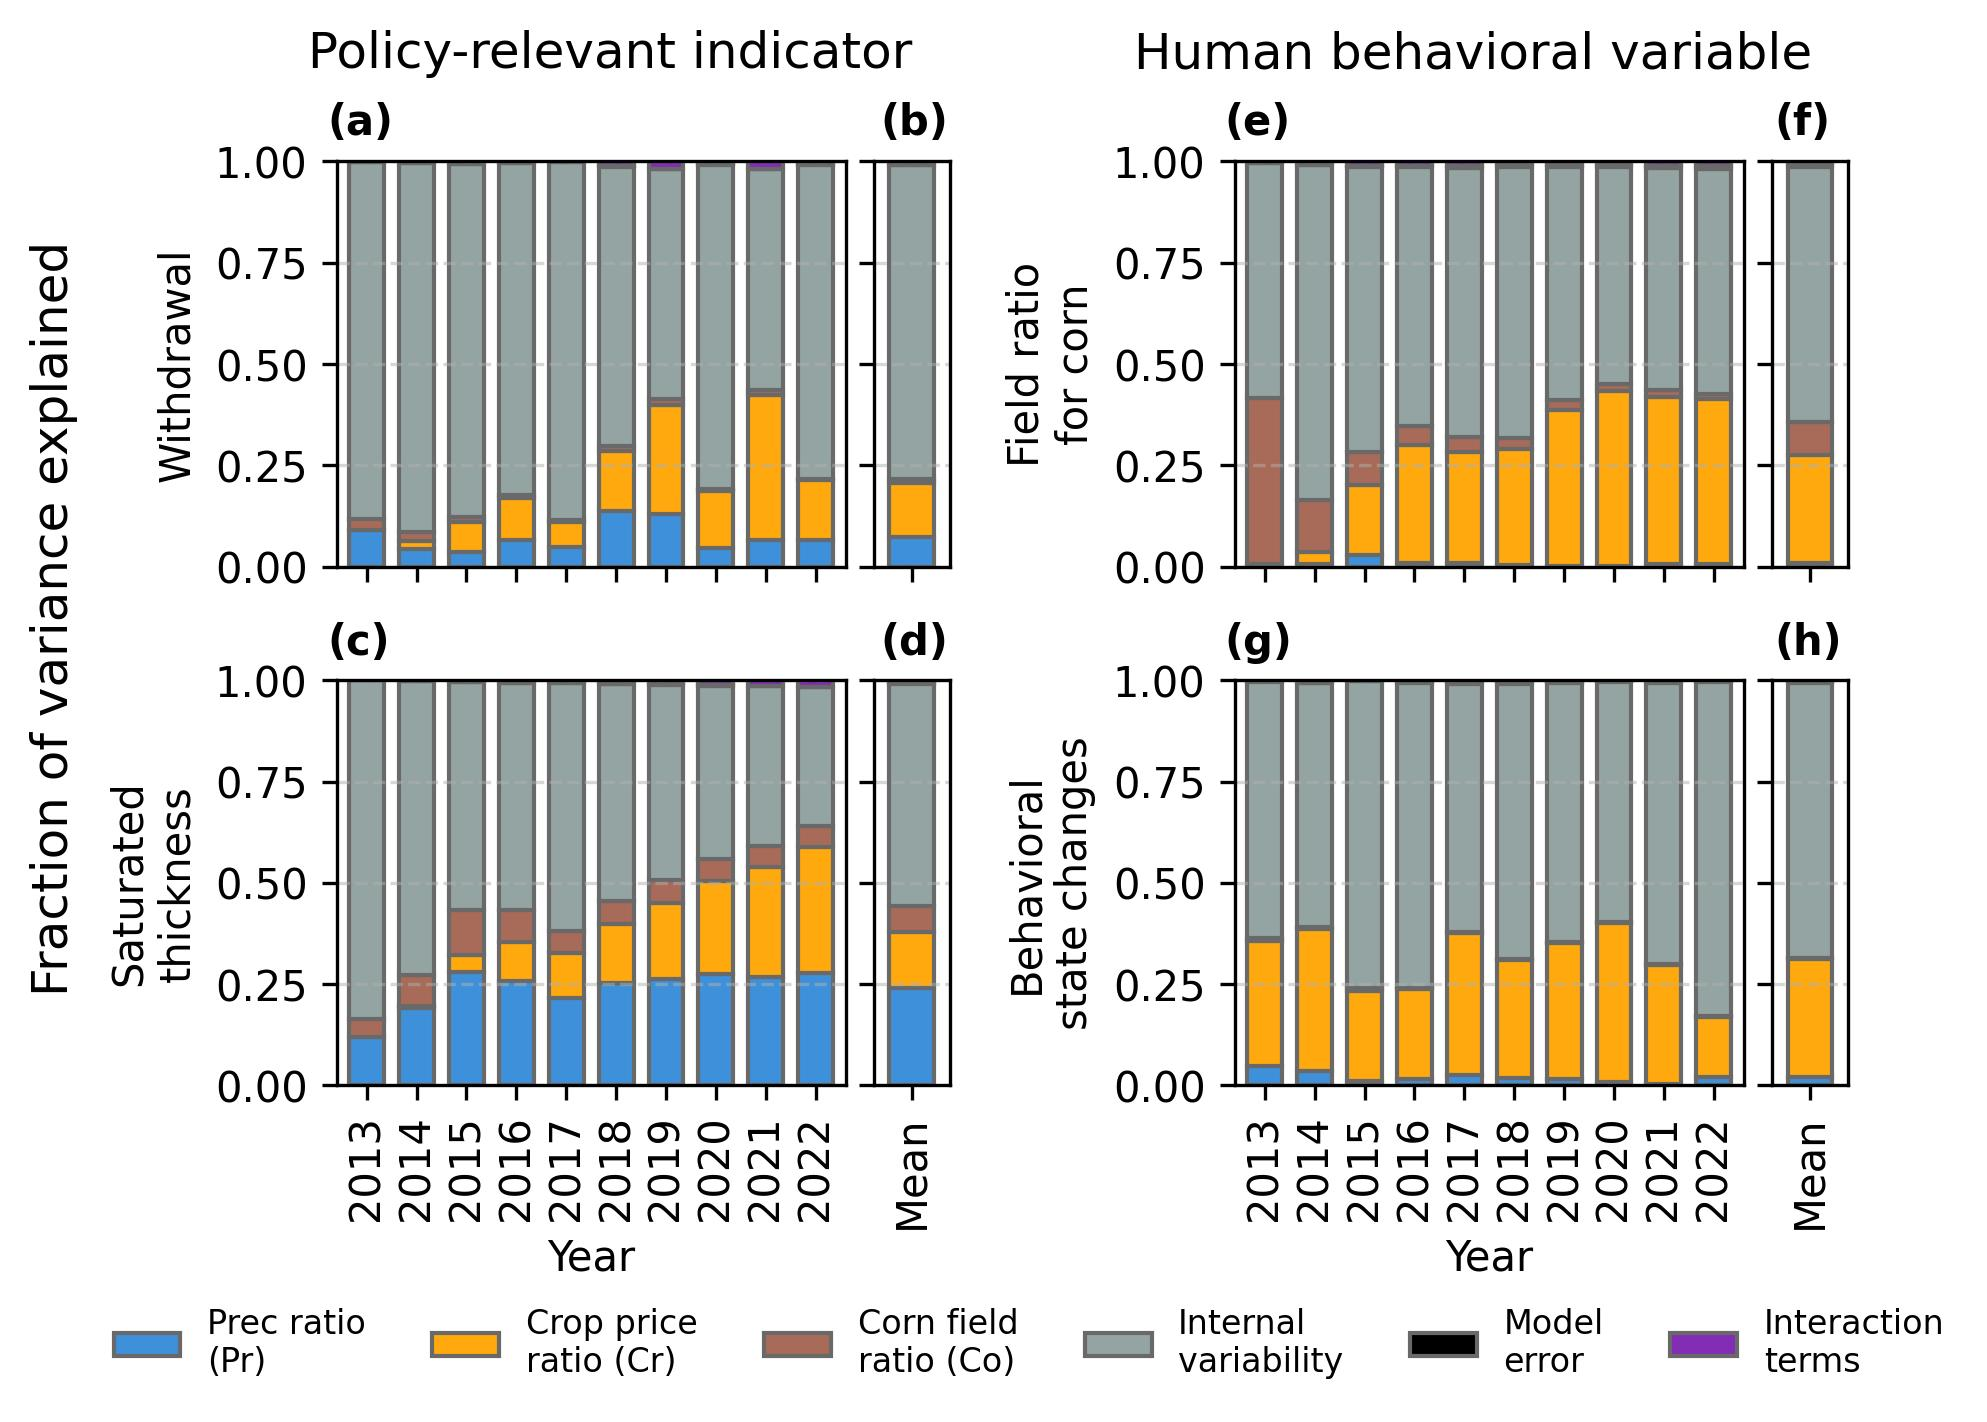
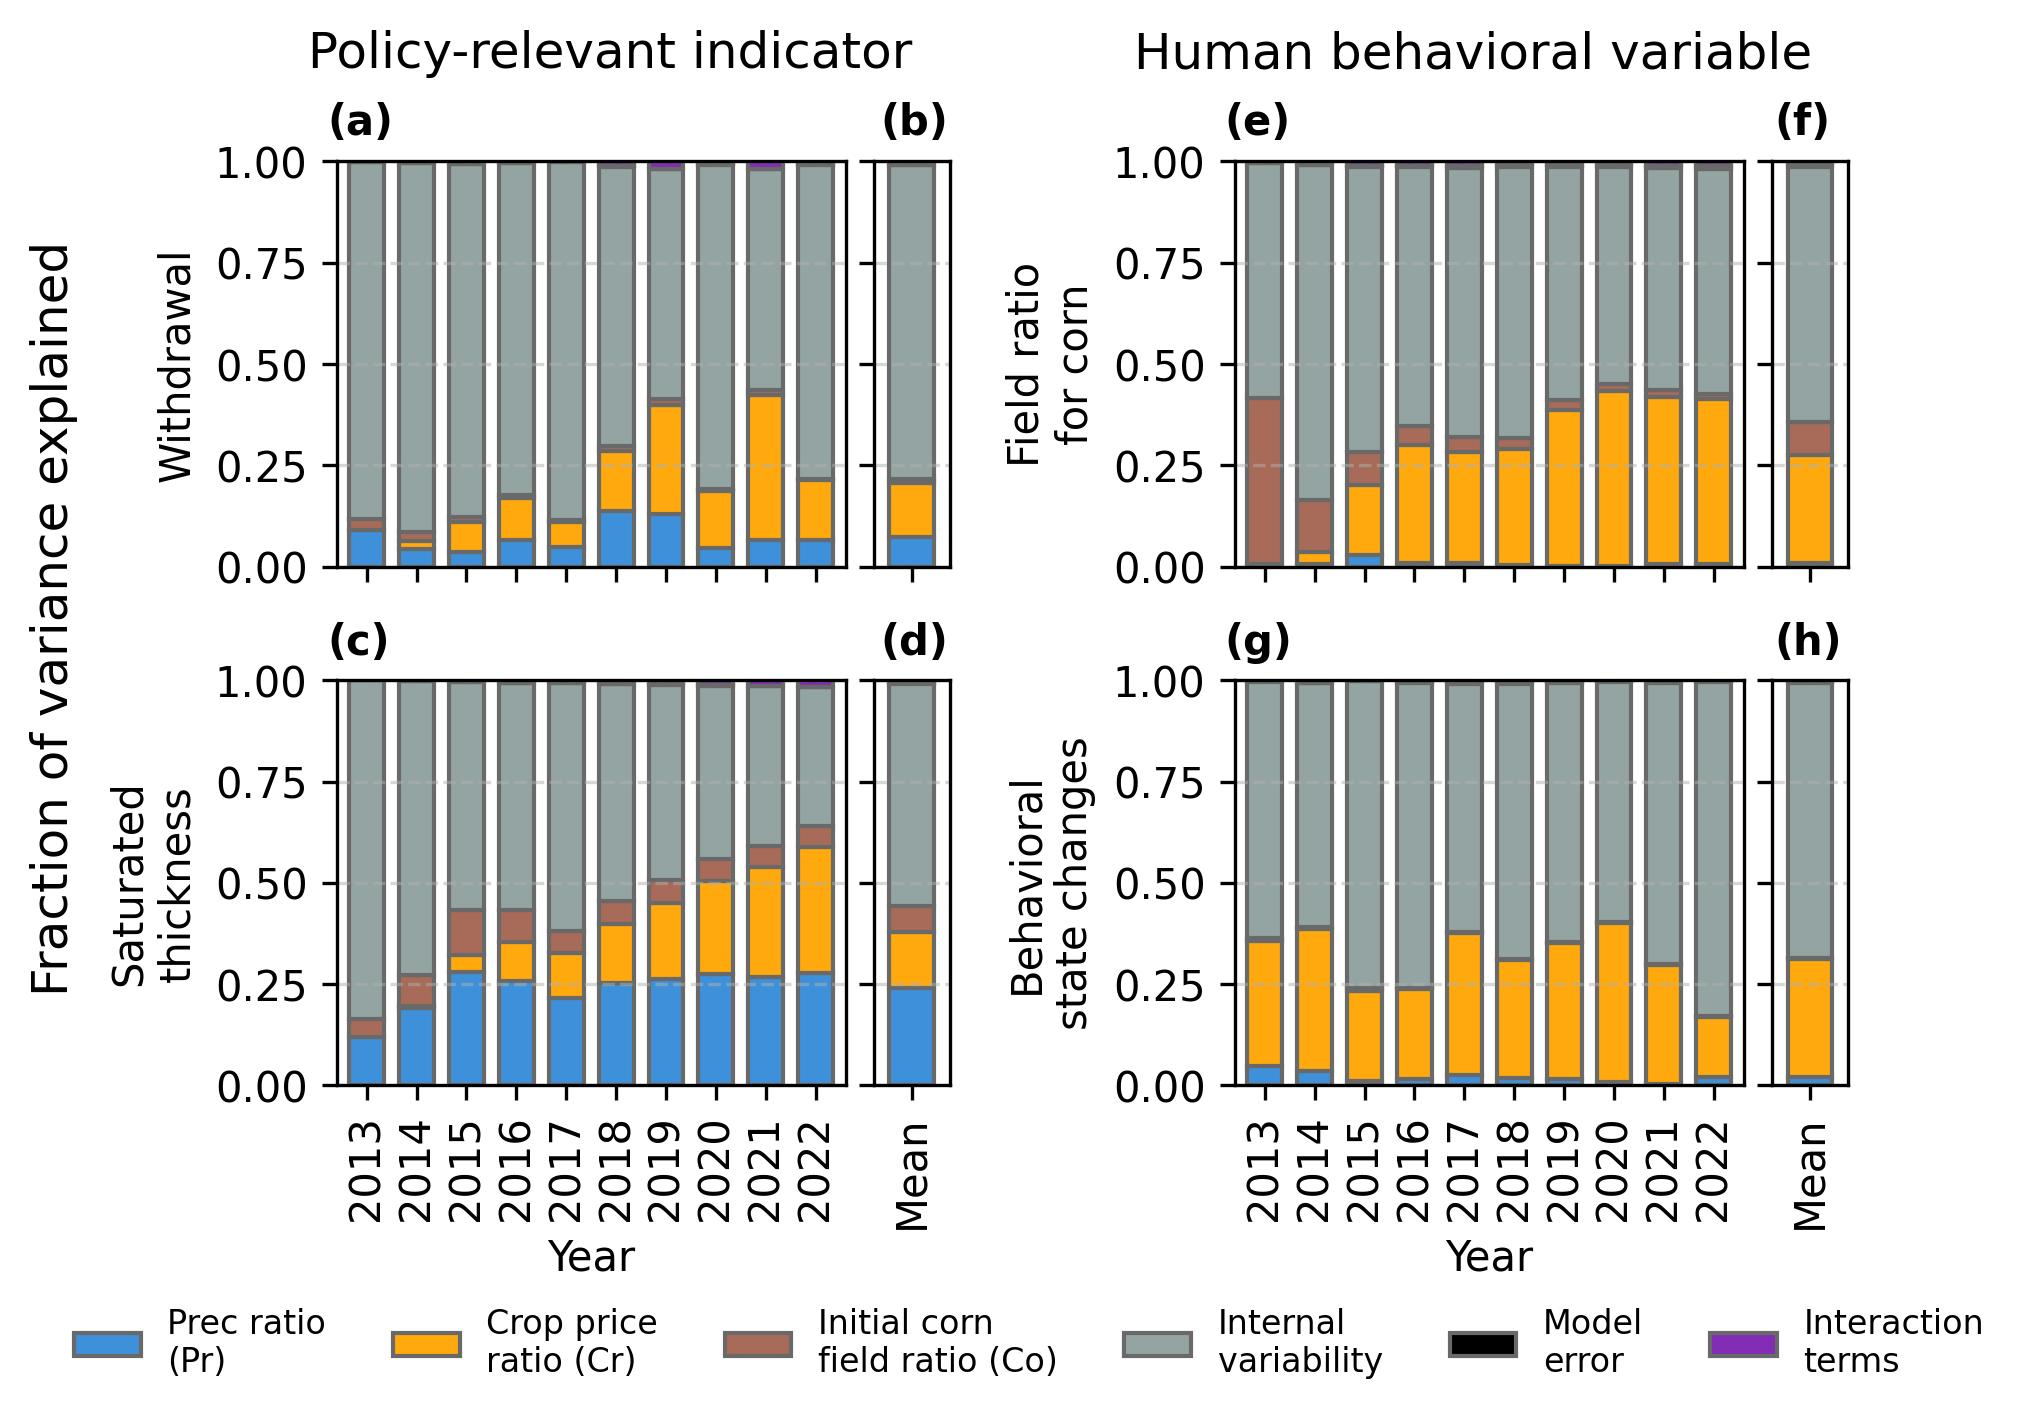
u

diff --git a/figures/code_for_plotting/figS4_survey_analysis.py b/figures/code_for_plotting/figS4_survey_analysis.py
@@ -1,0 +1,61 @@
+import pandas as pd
+import matplotlib.pyplot as plt
+import pathnavigator
+
+root_dir = rf"C:\Users\{pathnavigator.user}\Documents\GitHub\SD6InternalVariability"
+pn = pathnavigator.create(root_dir)
+
+# Load the dataset
+file_path = pn.figures.data_for_plotting.get("figS4_survey_data.csv")
+data = pd.read_csv(file_path)
+
+# Select just the required columns
+plant_columns = [col for col in data.columns if col.startswith('plant_') and col not in ['plant_other_text', 'plant_depend']]
+plant_averages = data[plant_columns].mean()
+
+# Mapping of original column names to descriptive labels
+column_rename_map = {
+    'plant_cropprice': 'Expected crop prices',
+    'plant_inputprice': 'Expected input prices',
+    'plant_labortime': 'Labor and time requirement',
+    'plant_weather': 'Expected weather',
+    'plant_surfacew': 'Forcasted surface water',
+    'plant_wlevel': 'Water table level',
+    'plant_knowledge': 'Knowledge of / experience with crop',
+    'plant_sustainability': 'Environmental sustainability',
+    'plant_equipment': 'Crop-specific equipment',
+    'plant_risk': 'Risk/uncertainty of crop',
+    'plant_buyer': 'Known buyer',
+    'plant_neighbor': "Neighbor's decision",
+    'plant_rotation': 'Set rotation',
+    'plant_soil': 'Soil characters',
+    'plant_other': 'Other'
+}
+
+# Replace index (column names) in the plant_averages Series
+plant_averages.rename(index=column_rename_map, inplace=True)
+
+# Customization options
+label_fontsize = 12
+tick_fontsize = 12
+bar_color = 'skyblue'
+
+# Create horizontal bar chart with sorted values (highest at top)
+plt.figure(figsize=(7, 4),dpi = 300)
+plant_averages.sort_values(ascending=True).plot(kind='barh', color=bar_color)
+
+# Customize plot
+plt.xlabel('Average rating of importance\n(higher is more important)', fontsize=label_fontsize)
+plt.ylabel('Factor', fontsize=label_fontsize)
+plt.xticks(fontsize=tick_fontsize)
+plt.yticks(fontsize=tick_fontsize)
+plt.grid(axis='x', linestyle='--', alpha=0.7)
+
+# Save the plot to a file
+plt.tight_layout()
+plt.savefig(pn.figures.get() / "figS4_survey_data.jpg", dpi=300)
+
+# Show the plot
+plt.show()
+
+

diff --git a/code/anova_utils.py b/code/anova_utils.py
@@ -177,7 +177,7 @@ def plot_anova_sum_sq_fraction(mu_dict, save_figname=None):
     map_dict = {
         "Pr": "Prec ratio\n(Pr)",
         "Cr": "Crop price\nratio (Cr)",
-        "Co": "Corn field\nratio (Co)",
+        "Co": "Initial corn\nfield ratio (Co)",
         "IV": "Internal\nvariability",
         "Error": "Model\nerror",
         "Interaction terms": "Interaction\nterms"}
@@ -292,7 +292,7 @@ def plot_anova_sum_sq_fraction_old(mu_dict, save_figname=None):
     map_dict = {
         "Pr": "Prec ratio\n(Pr)",
         "Cr": "Crop price\nratio (Cr)",
-        "Co": "Corn field\nratio (Co)",
+        "Co": "Initial corn\nfield ratio (Co)",
         "Residual": "Internal\nvariability",
         "Interaction terms": "Interaction\nterms"}
     labels = [map_dict[i] if map_dict.get(i) is not None else i for i in labels]
@@ -415,7 +415,7 @@ def plot_anova_sum_sq(mu_dict, save_figname=None):
     map_dict = {
         "Pr": "Prec ratio\n(Pr)",
         "Cr": "Crop price\nratio (Cr)",
-        "Co": "Corn field\nratio (Co)",
+        "Co": "Initial corn\nfield ratio (Co)",
         "Residual": "Internal\nvariability",
         "Interaction terms": "Interaction\nterms"}
     labels = [map_dict[i] if map_dict.get(i) is not None else i for i in labels]
@@ -588,7 +588,7 @@ def plot_norm_comparison(pn, df_Wi_regime_norm, fraction=True, save_figname=None
 
     # Add legend
     handles, labels = ax.get_legend_handles_labels()
-    map_dict = {"Pr": "Prec ratio\n(Pr)", "Cr": "Crop price\nratio (Cr)", "Co": "Corn field\nratio (Co)", "Residual": "Internal\nvariability", "Interaction terms": "Interaction\nterms"}
+    map_dict = {"Pr": "Prec ratio\n(Pr)", "Cr": "Crop price\nratio (Cr)", "Co": "Initial corn\nfield ratio (Co)", "Residual": "Internal\nvariability", "Interaction terms": "Interaction\nterms"}
     labels = [map_dict[i] if map_dict.get(i) is not None else i for i in labels]
     legend1 = fig.legend(handles, labels, ncols=5, bbox_to_anchor=(0.5, 0.03), loc='upper center', frameon=False, fontsize=8)
     # Second legend: hatch styles

diff --git a/figures/code_for_plotting/figS5_anova.py b/figures/code_for_plotting/figS5_anova.py
@@ -29,7 +29,7 @@ medians = {
 hue_var_dict = {
     "Pr": "Prec ratio\n(Pr)",
     "Cr": "Crop price\nratio (Cr)",
-    "Co": "Corn field\nratio (Co)",
+    "Co": "Initial corn\nfield ratio (Co)",
     }
 
 y_var_dict = {
